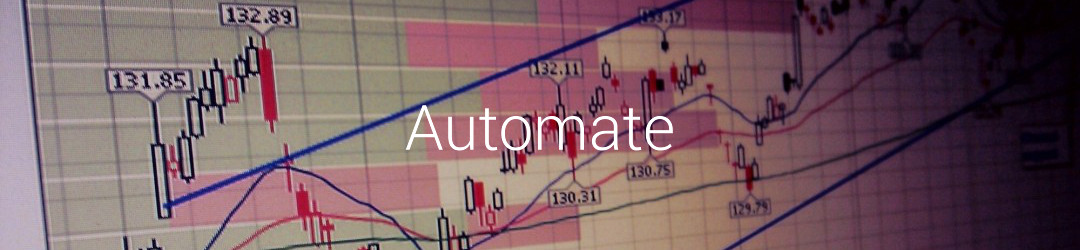
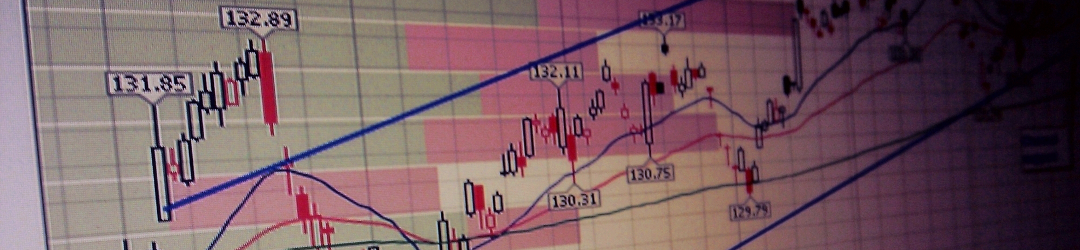
Fix carousel so that overlay text is not an image

diff --git a/index.html b/index.html
@@ -24,11 +24,17 @@ layout: null
                 <div class="item active">
                     <a href="/hpbsignals/" title="HPB Signals">
                         <img style="min-width: 100%;" src="/resources/images/slider_software.jpg" alt="HPB Signals">
+                        <div class="carousel-caption">
+                            <p>Know Your Options</p>
+                        </div>
                     </a>
                 </div>
                 <div class="item">
                     <a href="/market-outlook/" title="Market Outlook">
                         <img style="min-width: 100%;" src="/resources/images/slider_tradingblog.jpg" alt="Market Outlook">
+                        <div class="carousel-caption">
+                            <p>Automate</p>
+                        </div>
                     </a>
                 </div>
             </div>

diff --git a/resources/style.scss b/resources/style.scss
@@ -22,6 +22,30 @@ $hpb-chart-width: 900px;
     margin-bottom: -1%;
 }
 
+.carousel-caption {
+    text-align: center;
+    margin: auto;
+    top: 50%; transform:
+    translateY(-50%);
+    bottom: initial;
+}
+
+.carousel-caption p {
+    font-size: 20px;
+}
+
+@media screen and (min-width: 768px) {
+    .carousel-caption p {
+        font-size: 50px;
+    }
+}
+
+@media screen and (min-width: 1280px) {
+    .carousel-caption p {
+        font-size: 80px;
+    }
+}
+
 html {
     position: relative;
     min-height: 100%;
